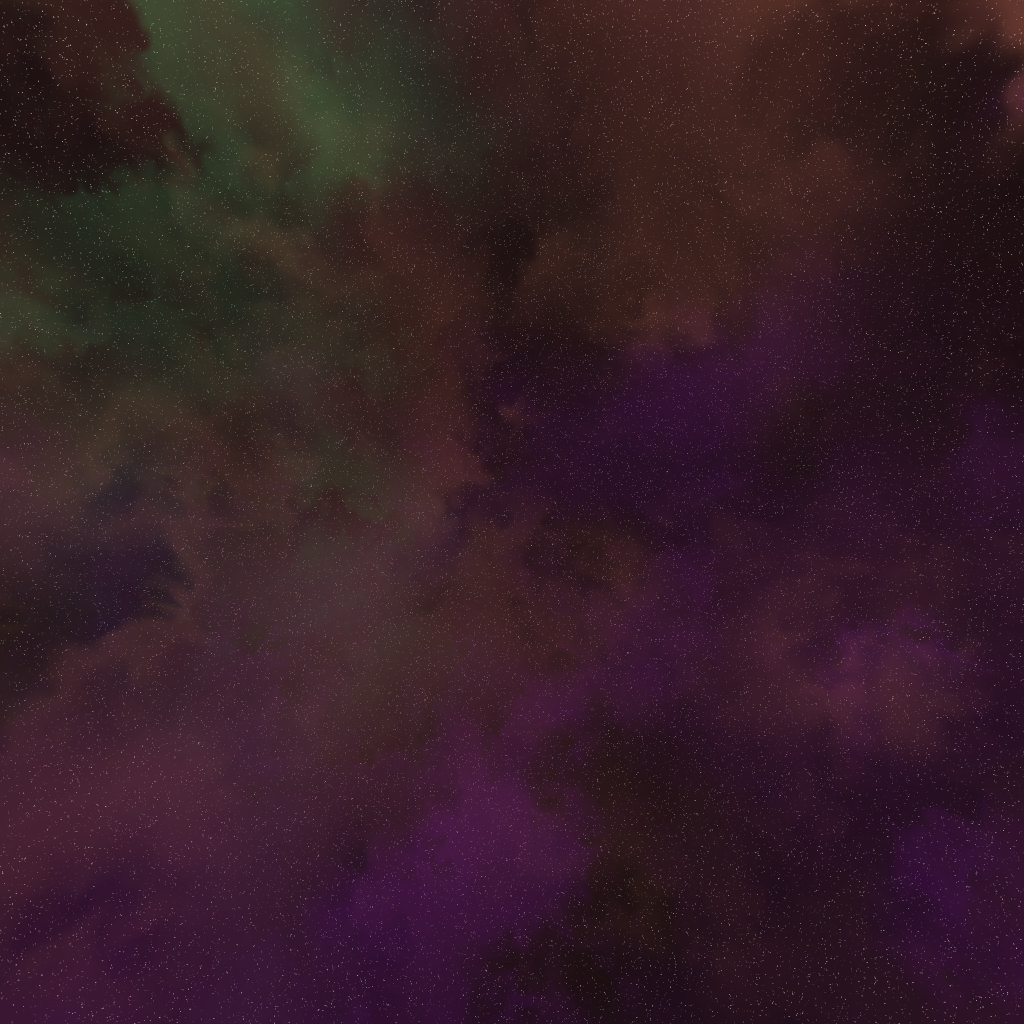
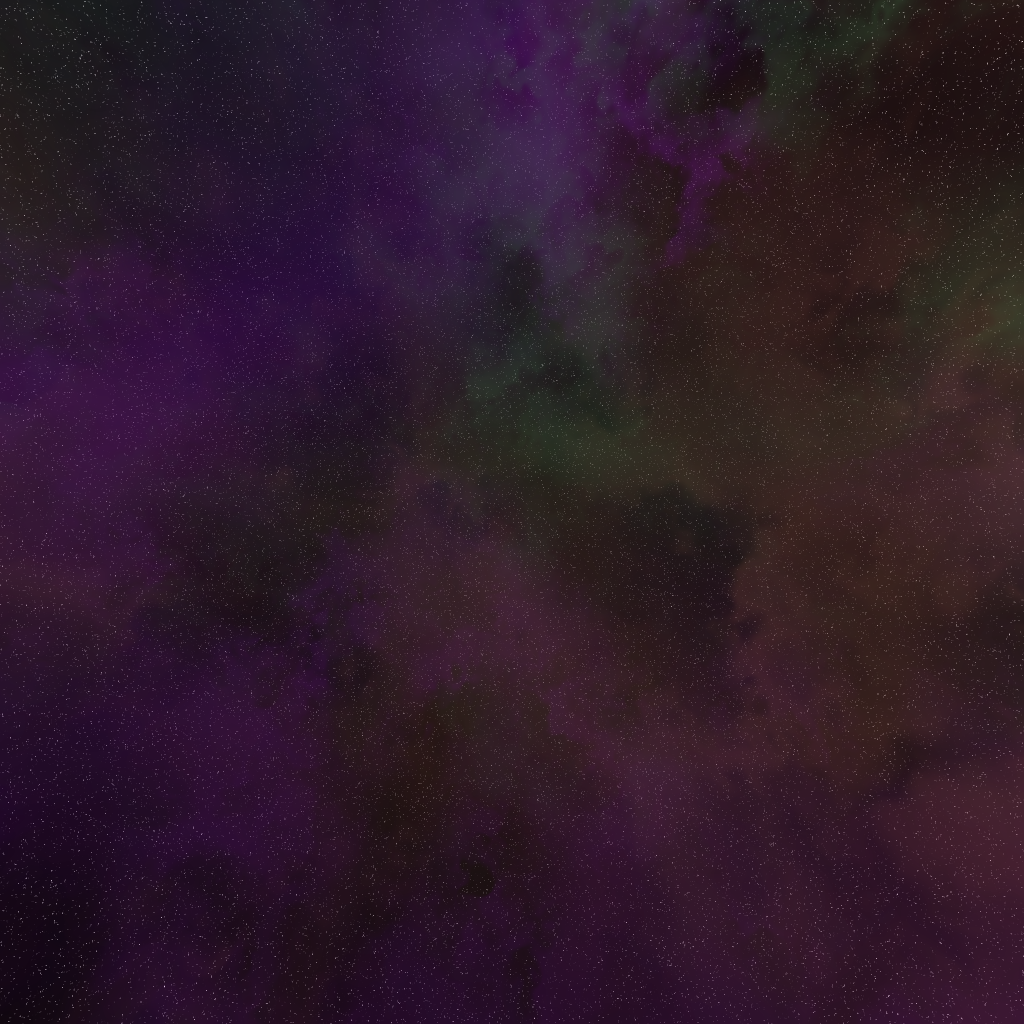
skybox into correct order

diff --git a/src/components/FirstLoader/index.js b/src/components/FirstLoader/index.js
@@ -28,13 +28,13 @@ function SkyBox() {
   const loader = new CubeTextureLoader();
   // The CubeTextureLoader load method takes an array of urls representing all 6 sides of the cube.
   const texture = loader.load([
-    // "1.png",
+    "1.png",
     "2.png",
     "3.png",
     "4.png",
     "5.png",
     "6.png",
-    "7.png",
+    // "7.png",
   ]);
 
   // Set the scene background property to the resulting texture.
@@ -98,11 +98,11 @@ function FirstLoader() {
         onMouseMove={onMouseMove}
       >
         <SkyBox />
-        <Stars />
-        <PerspectiveCamera />
+        {/* <Stars /> */}
+        {/* <PerspectiveCamera /> */}
         <OrbitControls />
-        <ambientLight intensity={0.4} />
-        <spotLight position={[10, 15, 10]} angle={0.7} />
+        {/* <ambientLight intensity={0.4} />
+        <spotLight position={[10, 15, 10]} angle={0.7} /> */}
         {/* <Html fullscreen>
           <div className="container3DText">
             <h1>{text}</h1>

diff --git a/src/container/ComicsPerMarvel/index.js b/src/container/ComicsPerMarvel/index.js
@@ -9,8 +9,8 @@ import axios from "axios";
 function ComicsPerMarvel({ updateFavoris, characterDetails }) {
   const [data, setData] = useState([]);
   const params = useParams();
-  const id = params.characterId;
-
+  // const id = params.characterId;
+  const [id, setId] = useState(params.characterId);
   const { name, thumbnail, description } = characterDetails;
 
   useEffect(() => {
@@ -28,7 +28,7 @@ function ComicsPerMarvel({ updateFavoris, characterDetails }) {
   }, [id]);
 
   return (
-    <div style={{ position: "absolute", top: 80 }}>
+    <div style={{ position: "absolute", top: 80, backgroundColor: "blue" }}>
       <p>{name}</p>
       <img
         id="marvelPicDescription"

diff --git a/src/container/Characters/index.css b/src/container/Characters/index.css
@@ -1,7 +1,7 @@
 .character-page {
   /* background-color: rgba(175, 60, 60, 0.705); */
   color: blueviolet;
-  /* height: 100vh; */
+  height: 100vh;
   display: flex;
   flex-wrap: wrap;
   justify-content: space-around;
